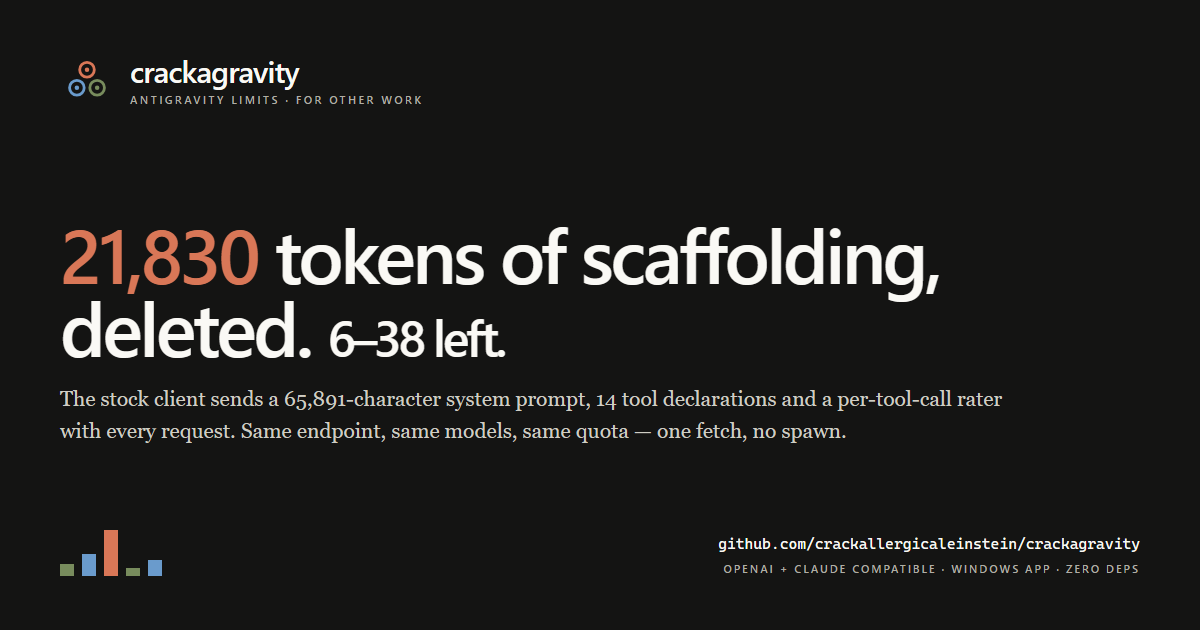
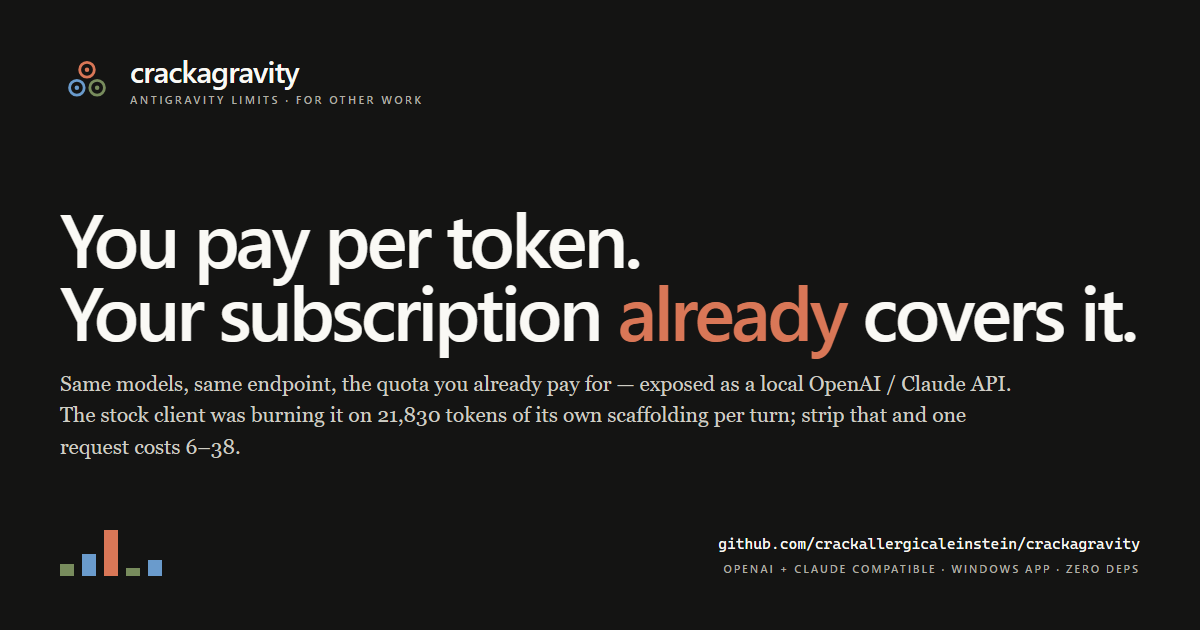
pitch: lead with money, not tokens
- README: 'you're paying twice' section — API per-token vs the subscription
  already on the machine; 21,830 is the supporting evidence, not the headline
- launch body: cost-first rewrite with the same numbers and limits
- social card regenerated with the cost framing

Changed region(s): [[0.0308, 0.3317, 0.9558, 0.573], [0.0308, 0.573, 0.8325, 0.7238]]

diff --git a/launch/card.html b/launch/card.html
@@ -55,9 +55,10 @@
   </div>
 
   <div>
-    <h1><span class="num">21,830</span> tokens of scaffolding,<br>deleted. <span class="small">6–38 left.</span></h1>
-    <p class="lede">The stock client sends a 65,891-character system prompt, 14 tool declarations and a
-    per-tool-call rater with every request. Same endpoint, same models, same quota — one fetch, no spawn.</p>
+    <h1>You pay per token.<br>Your subscription <span class="num">already</span> covers it.</h1>
+    <p class="lede">Same models, same endpoint, the quota you already pay for — exposed as a local
+    OpenAI / Claude API. The stock client was burning it on 21,830 tokens of its own scaffolding per
+    turn; strip that and one request costs 6–38.</p>
   </div>
 
   <div class="bottom">

diff --git a/launch/posts/body-short.md b/launch/posts/body-short.md
@@ -1,35 +1,36 @@
 # Short body — paste-ready
 
-Use this as the post body on Reddit / forums / Telegram. It is deliberately
-~230 words: long enough to carry the numbers, short enough that people actually
-read it. Swap the first line for the community-specific one in the other files
-if you want.
+The pitch is **money**, not tokens. Tokens are the supporting evidence: they are
+why the free quota died fast. Lead with cost, back it with the measurement, and
+close on the honest limits. ~240 words.
 
 ---
 
-So I got sick of Antigravity eating my quota and went and measured the fucking
-thing. One captured request, one three-word answer:
+You know what's actually ridiculous? Paying per token for Claude Opus, Sonnet or
+Gemini Pro, when the Antigravity subscription sitting on your machine already
+includes quota for those exact models. Twenty bucks a month, or free tier, or
+Ultra — and then you open an API bill on top of it because the IDE quota is
+locked behind a 235 MB binary that eats it for you.
 
-- 65,891-character system prompt ≈ 16.5k tokens
-- 14 tool declarations ≈ 5k tokens
-- a second "safety rater" request per tool call = 2,704 tokens
-- a 235 MB `agy.exe` spawn per turn, ~7 seconds
+That's the whole reason this exists. Same models, same endpoint, your own
+already-paid quota, exposed as a plain OpenAI + Claude compatible API on
+localhost. No API key to buy, no per-million-token invoice, no "big plan"
+upgrade to get a usable rate limit. If you already pay for the subscription, the
+marginal cost of a request is **zero**.
 
-**21,830 prompt tokens** before it even reads your question. All of that shit is
-built client-side — the upstream endpoint does not need any of it. Strip it and
-the same answer costs **6–38 tokens**, one `fetch`, no process.
+Why it wasn't usable before: the stock CLI shoves 21,830 prompt tokens of its own
+client-side scaffolding — 65k-character system prompt, 14 tool declarations, a
+per-tool-call rater, a fresh 235 MB spawn — into every single turn. That's why
+your free quota evaporated asking one question. Strip the bullshit and the same
+answer costs **6–38 tokens**, one `fetch`. Same quota, lasts a hell of a lot
+longer.
 
-So I built the whole lane around that and wrapped it in what you actually want:
-an OpenAI + Claude compatible local API (streaming, tools, thinking budgets),
-a Windows app with a key store and a live reasoning panel, and a CLI with a
-14-check selftest. Zero npm deps, no build step, no mystery 8 MB binary.
+Ships as a local API (streaming, tools, thinking budgets as numbers), a Windows
+app with key management and a live reasoning panel, and a CLI with a 14-check
+selftest. Zero npm deps, no build step.
 
-Thinking is a number now, not a vibe — measured: 1024 → 153 thought tokens,
-8192 → 348, 30000 → 1218, same prompt.
-
-And before someone asks: **it does not touch Google's content filter or model
-refusals.** Those come back as normal 200s. This is subtraction, not magic, and
-the README says so in bold instead of overselling you a bypass fantasy.
+Before anyone asks: it does **not** touch Google's server-side content filter or
+model refusals — those come back as normal 200s. This is subtraction, not magic.
 
 Windows + Node 20+: https://github.com/crackallergicaleinstein/crackagravity
 
@@ -37,14 +38,15 @@ Windows + Node 20+: https://github.com/crackallergicaleinstein/crackagravity
 
 ## Ultra-short (comment reply / Discord)
 
-> Measured Antigravity's CLI: 21,830 prompt tokens of client-side scaffolding per
-> turn for a three-word answer. Same endpoint without it: 6–38 tokens. Built an
-> OpenAI/Claude-compatible local API + Windows app around that, zero deps.
-> Doesn't touch the server-side filter — README says so. 
+> You're paying per token for Claude/Gemini while the Antigravity sub you already
+> have includes the same models — the IDE just burns that quota on 21,830 tokens
+> of its own scaffolding per turn. Exposed it as a local OpenAI/Claude API: same
+> models, zero marginal cost, 6–38 tokens per call. Server-side filter untouched.
 > https://github.com/crackallergicaleinstein/crackagravity
 
 ## One-line (X reply / Telegram)
 
-> Antigravity: 21,830 prompt tokens of scaffolding before it reads your question.
-> Direct call: 6–38. Same quota, one fetch, no 235 MB spawn.
+> Stop paying per token for models your Antigravity subscription already covers.
+> Local OpenAI/Claude API on your own quota — the stock client was just burning it
+> on 21,830 tokens of scaffolding.
 > github.com/crackallergicaleinstein/crackagravity

diff --git a/README.md b/README.md
@@ -15,6 +15,25 @@ your actual fucking message in it.
 
 ---
 
+## The actual point: you're paying twice
+
+Nobody's problem here is "tokens are interesting". The problem is the invoice.
+
+Claude Opus, Sonnet, Gemini Pro through an API cost real money per million
+tokens. Meanwhile the Antigravity subscription already sitting on your machine
+covers those same models — $20/mo tier, free tier, or Ultra — and you're supposed
+to use it through one specific IDE window like a fucking peasant. Want it from
+Cline, aider, your own script? Buy API credits, or upgrade the "big plan".
+
+This repo says no. Same models, same endpoint, **your already-paid quota**,
+exposed as a normal OpenAI + Claude compatible API on localhost. If you already
+pay for the subscription, the marginal cost of a request is **zero**.
+
+The 21,830-token number below is the *reason it felt broken*: the stock client
+poured your quota into its own scaffolding, so even "free" ran out after a
+handful of questions. Strip that and the same money covers a hundred times more
+work.
+
 ## Read this before you touch anything, idiot
 
 The stock CLI (`agy -p "hi"`) costs **21,830 prompt tokens** for a three-word
